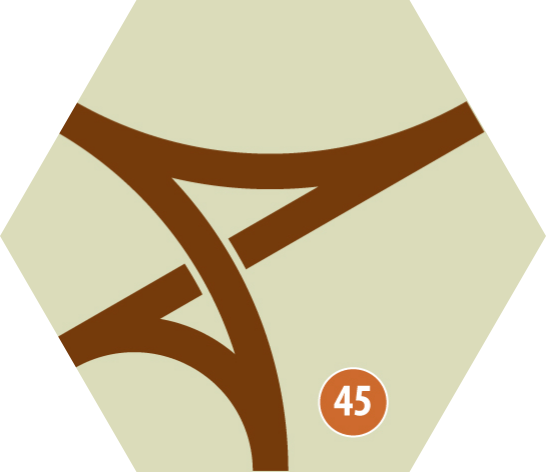
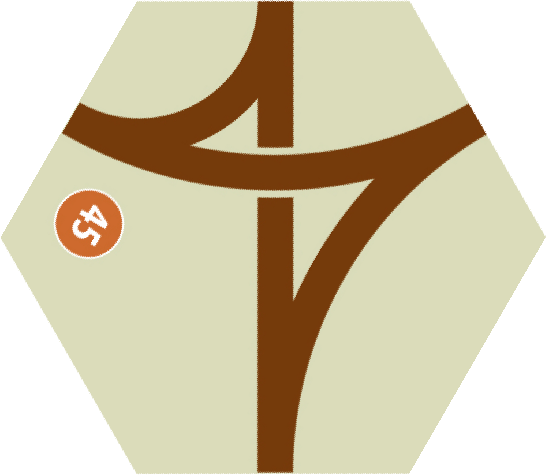
tile manifest: add 465, rotate image for 45

diff --git a/tile_manifest.tex b/tile_manifest.tex
@@ -52,6 +52,7 @@
 \row{835}{1}{}
 \row{217}{2}{}
 \row{831}{2}{}
+\row{465}{1}{}
 \row{63}{3}{}
 \row{74}{1}{}
 \row{193}{3}{}
